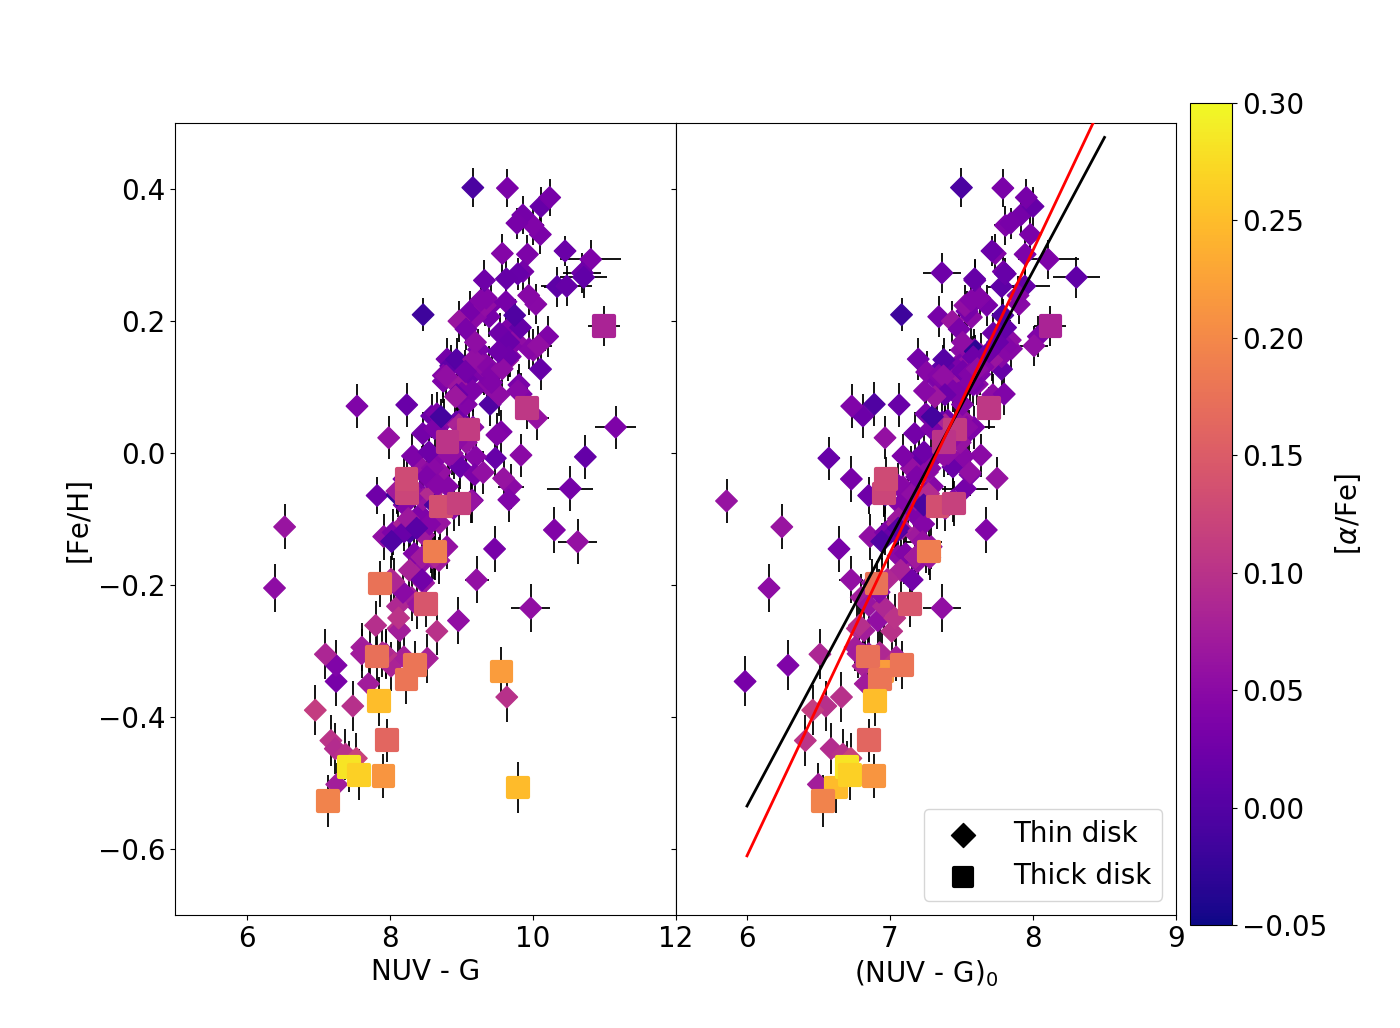
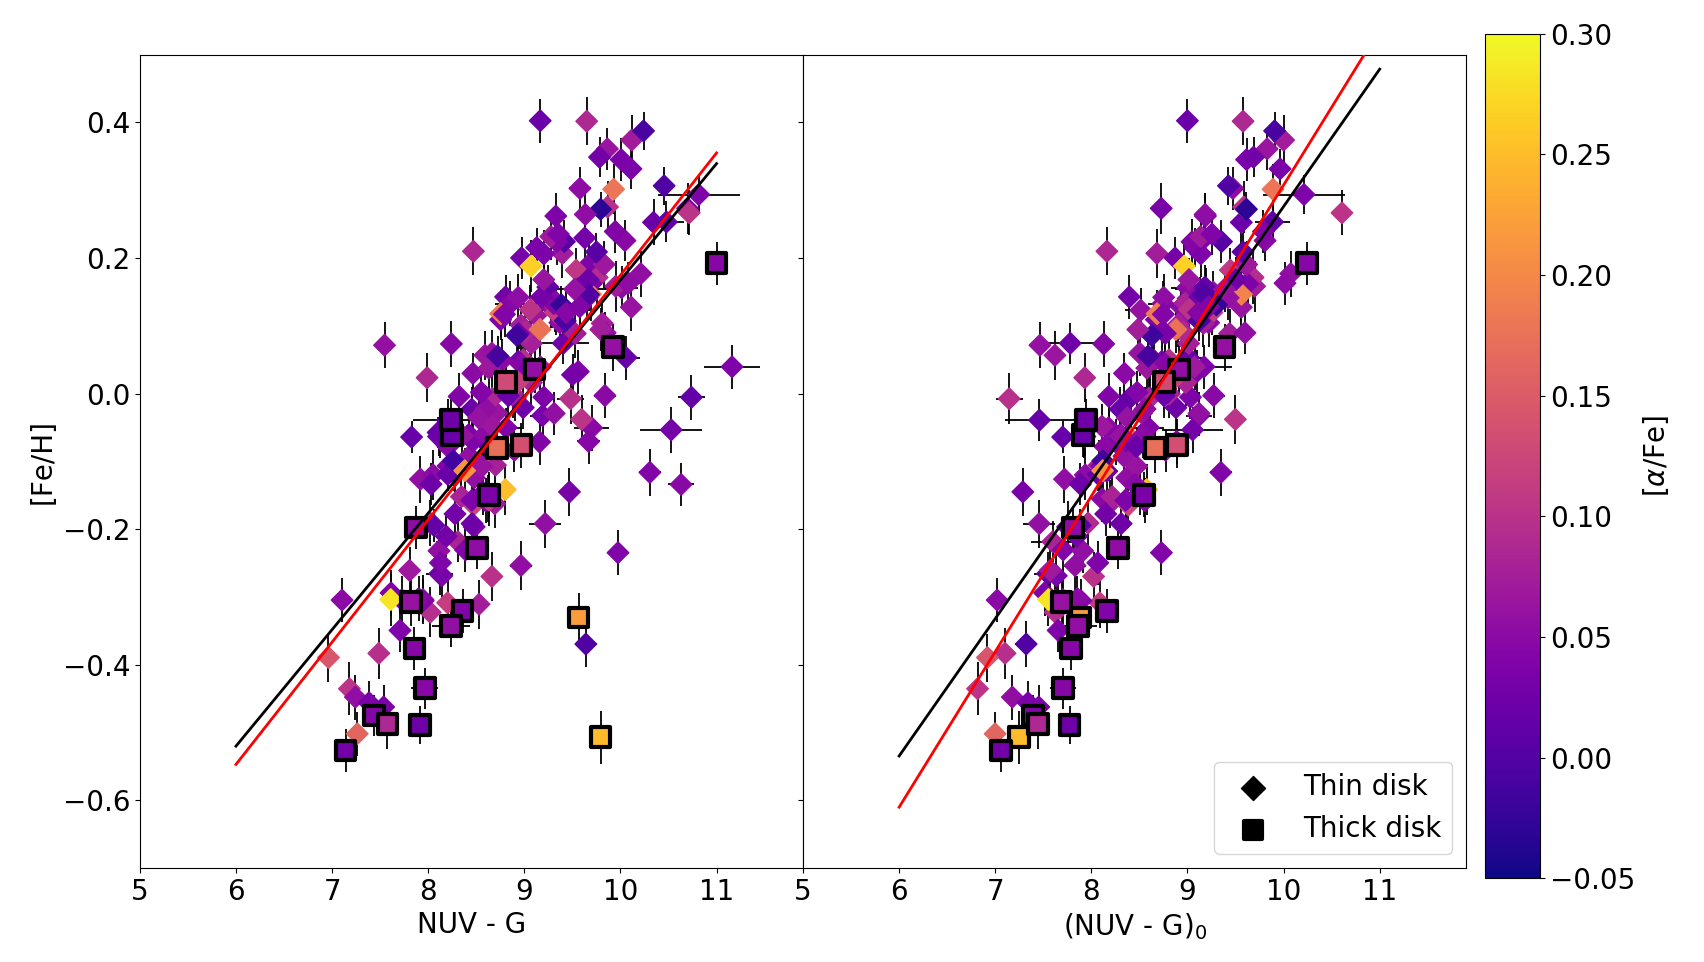
rc fit lines

diff --git a/pipeline/misc.py b/pipeline/misc.py
@@ -1967,6 +1967,9 @@ plt.show()
 ######################################################################
 # CMD with MG and MNUV
 ######################################################################
+sg = fits.open('gais_tgas_apass_dust.fits')[1].data
+sg = sg[~np.isnan(sg['ebv'])]
+
 fig, (ax1, ax2) = plt.subplots(2, 1)
 scatter_contour((sg['nuv_mag']-sg['ebv']*7.24)-(sg['phot_g_mean_mag']-sg['ebv']*3.303), (sg['MNUV']-sg['ebv']*7.24), threshold=1000, log_counts=True, histogram2d_args=dict(bins=40), plot_args=dict(color='k', markersize=1, alpha=0.1), contour_args=dict(cmap=cm.gray), ax=ax2)
 scatter_contour((sg['nuv_mag']-sg['ebv']*7.24)-(sg['phot_g_mean_mag']-sg['ebv']*3.303), (sg['MG']-sg['ebv']*3.303), threshold=1000, log_counts=True, histogram2d_args=dict(bins=40), plot_args=dict(color='k', markersize=1, alpha=0.1), contour_args=dict(cmap=cm.gray), ax=ax1)
@@ -1982,10 +1985,10 @@ fig.subplots_adjust(hspace=0)
 ax1.set_xticklabels([])
 ax2.set_yticklabels(['', '2', '4', '6', '8', '10', '12', '14', '16'])
 
-#ax1.add_patch(matplotlib.patches.Rectangle((7.1, -1.1),2.9,2.4,facecolor='red',alpha=0.5))
-#ax2.add_patch(matplotlib.patches.Rectangle((7.2, 5.9),2.9,1.8,facecolor='red',alpha=0.5, angle=45))
-ax1.scatter(x[rccut], (sg['MG']-sg['ebv']*3.303)[rccut], edgecolor='none', alpha=0.01)
-ax2.scatter(x[rccut], (sg['MNUV']-sg['ebv']*7.24)[rccut], edgecolor='none', alpha=0.01)
+#ax1.add_patch(matplotlib.patches.Rectangle((7.2, -1.1),2.9,2.4,edgecolor='red',alpha=0.5))
+#ax2.add_patch(matplotlib.patches.Rectangle((7.2, 5.9),4.6,1.8,edgecolor='red',alpha=0.5, angle=45))
+#ax1.scatter(x[rccut], (sg['MG']-sg['ebv']*3.303)[rccut], edgecolor='none', alpha=0.01)
+#ax2.scatter(x[rccut], (sg['MNUV']-sg['ebv']*7.24)[rccut], edgecolor='none', alpha=0.01)
 plt.show()
 
 
@@ -2075,15 +2078,72 @@ bv = (rc['B_apass']-rc['ebv']*3.626)-(rc['v_apass']-rc['ebv']*2.742)
 #################################################
 # rc fit lines
 #################################################
-x1 = rc['nuv_mag']-rc['phot_g_mean_mag']
-x2 = (rc['nuv_mag']-rc['ebv']*7.24)-(rc['phot_g_mean_mag']-rc['ebv']*3.303)
-y = rc['FE_H']
+rc = fits.open('rc_all_10-31.fits')[1].data
+xa1 = rc['nuv_mag']-rc['phot_g_mean_mag']
+xb1 = (rc['nuv_mag']-rc['ebv']*7.24)-(rc['phot_g_mean_mag']-rc['ebv']*3.303)
+y1 = rc['FE_H']
 
-z1 = np.polyfit(x1, y, 1)
-z2 = np.polyfit(x2, y, 1)
-p1 = np.poly1d(z1)
-p2 = np.poly1d(z2)
+q = np.where(xb1 > 6.6)
+xa2 = xa1[q]
+xb2 = xb1[q]
+y2 = y1[q]
+
+za1 = np.polyfit(xa1, y1, 1)
+zb1 = np.polyfit(xb1, y1, 1)
+za2 = np.polyfit(xa2, y2, 1)
+zb2 = np.polyfit(xb2, y2, 1)
+
+pa1 = np.poly1d(za1)
+pb1 = np.poly1d(zb1)
+pa2 = np.poly1d(za2)
+pb2 = np.poly1d(zb2)
 xp = np.linspace(6, 11, 50)
+
+
+
+m = (0.095-.21)/(0+0.8)
+b = 0.095
+thick, = np.where((rc[q]['ALPHAFE'] > 0.08) & (rc[q]['ALPHAFE'] > (m*rc[q]['FE_H'] + b)))
+thin, = np.where((rc[q]['ALPHAFE'] < 0.08) | (rc[q]['ALPHAFE'] < (m*rc[q]['FE_H'] + b)))
+
+
+fig, (ax1, ax2) = plt.subplots(1, 2, sharey=True)
+cmap = ax1.scatter(xa2[thin], y2[thin], c=rc['ALPHAFE'][thin], s=120, vmin=-0.05, vmax=0.3, marker='D', cmap=plasma, **{"zorder":5})
+ax1.errorbar(xa2[thin], y2[thin], xerr=(rc['nuv_magerr']-rc['Gerr'])[thin], yerr=rc['FE_H_ERR'][thin], ecolor='black', fmt=None, marker=None, mew=0, elinewidth=1.3, **{"zorder":0})
+ax1.scatter(xa2[thick], y2[thick], c=rc['ALPHAFE'][thick], s=200, vmin=-0.05, vmax=0.3, marker='s', edgecolor='black', linewidth=3, cmap=plasma,**{"zorder":5})
+ax1.errorbar(xa2[thick], y2[thick], xerr=(rc['nuv_magerr']-rc['Gerr'])[thick], yerr=rc['FE_H_ERR'][thick], ecolor='black', fmt=None, marker=None, mew=0, elinewidth=1.3, **{"zorder":0})
+ax1.plot(xp, pa1(xp), linewidth=2, c='black', zorder=10)
+ax1.plot(xp, pa2(xp), linewidth=2, c='red', zorder=10)
+
+
+ax2.scatter(xb2[thin], y2[thin], c=rc['ALPHAFE'][thin], s=120, label='Thin disk', vmin=-0.05, vmax=0.3, marker='D', cmap=plasma, **{"zorder":5})
+ax2.errorbar(xb2[thin], y2[thin], xerr=(rc['nuv_magerr']-rc['Gerr'])[thin], yerr=rc['FE_H_ERR'][thin], ecolor='black', fmt=None, marker=None, mew=0, elinewidth=1.3, **{"zorder":0})
+ax2.scatter(xb2[thick], y2[thick], c=rc['ALPHAFE'][thick], s=200, label='Thick disk', vmin=-0.05, vmax=0.3, marker='s', edgecolor='black', linewidth=3, cmap=plasma, **{"zorder":5})
+ax2.errorbar(xb2[thick], y2[thick], xerr=(rc['nuv_magerr']-rc['Gerr'])[thick], yerr=rc['FE_H_ERR'][thick], ecolor='black', fmt=None, marker=None, mew=0, elinewidth=1.3, **{"zorder":0})
+ax2.plot(xp, pb1(xp), linewidth=2, c='black', zorder=10)
+ax2.plot(xp, pb2(xp), linewidth=2, c='red', zorder=10)
+
+
+ax1.set_xlim((5,11.9))
+ax2.set_xlim((5,11.9))
+ax1.set_ylim((-0.7, 0.5))
+ax2.set_ylim((-0.7, 0.5))
+ax1.set_xlabel('NUV - G')
+#ax2.set_xlabel('(NUV - E$_{B-V}$ * 7.24) - (G - E$_{B-V}$ * 3.303)')
+ax2.set_xlabel('(NUV - G)$_{0}$')
+ax1.set_ylabel('[Fe/H]')
+leg = ax2.legend(scatterpoints=1, loc=4)
+leg.legendHandles[0].set_color('black')
+leg.legendHandles[1].set_color('black')
+leg.legendHandles[0]._sizes = [150]
+leg.legendHandles[1]._sizes = [150]
+fig.subplots_adjust(wspace=0)
+fig.subplots_adjust(right=.84)
+cbar_ax = fig.add_axes([0.85, 0.1, 0.03, 0.8])
+#ax2.set_xticklabels([' ', '6', '7', '8', '9', '10', '11', '12'])
+fig.colorbar(cmap, cax=cbar_ax).set_label(r'[$\alpha$/Fe]')
+plt.show()
+
 
 
 #################################################

diff --git a/pipeline/intmaps_sextractor.py b/pipeline/intmaps_sextractor.py
@@ -56,8 +56,8 @@ def createCircularMask(h, w, center=None, radius=None):
 #########################################################################
 # Decide to run on full or partial scans
 #########################################################################
-run1 = 1
-run2 = 0
+run1 = 0
+run2 = 1
 run3 = 0
 
 full = 1
